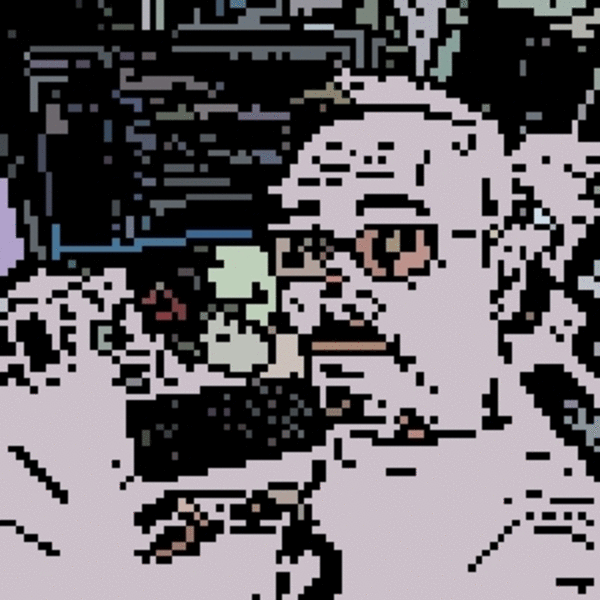
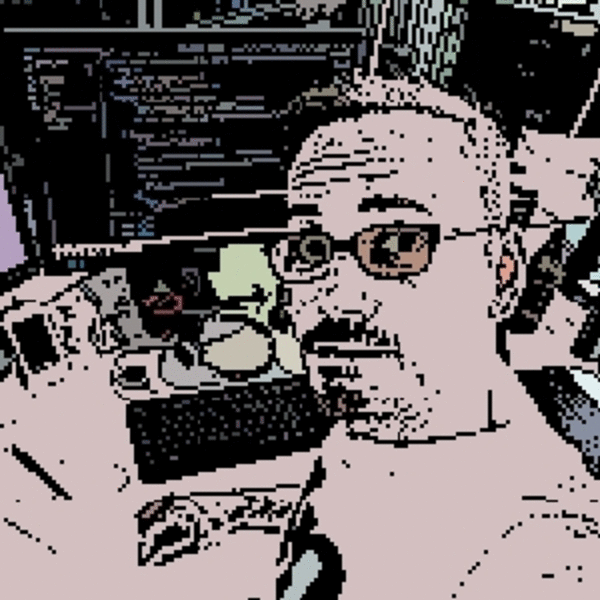
feat(page): replace animation with static image

diff --git a/src/index.html b/src/index.html
@@ -23,7 +23,10 @@
   </head>
   <body>
     <header id="header" class="person">
-      <img class="person__photo" src="img/hendrik-img8bit.gif" alt="Photo of Hendrik Neumann" />
+      <picture>
+        <source type="image/webp" srcset="img/hendrik-img8bit.webp" />
+        <img class="person__photo" src="img/hendrik-img8bit.png" alt="Photo of Hendrik Neumann" />
+      </picture>
       <h1 class="person__name">Hendrik Neumann</h1>
       <p class="person__tagline">
         Content<span style="color: var(--color__tertiary);">()</span>

diff --git a/src/css/style.css b/src/css/style.css
@@ -69,6 +69,10 @@ a:visited {
   text-decoration: none;
 }
 
+a:hover {
+  border-bottom: 2px solid var(--color__tertiary);
+}
+
 img {
   max-width: 100%;
   height: auto;
@@ -88,7 +92,7 @@ body {
   margin: 0 auto;
 }
 
-section {
+section:not(:first-child) {
   margin-top: var(--spacing--lg);
 }
 
